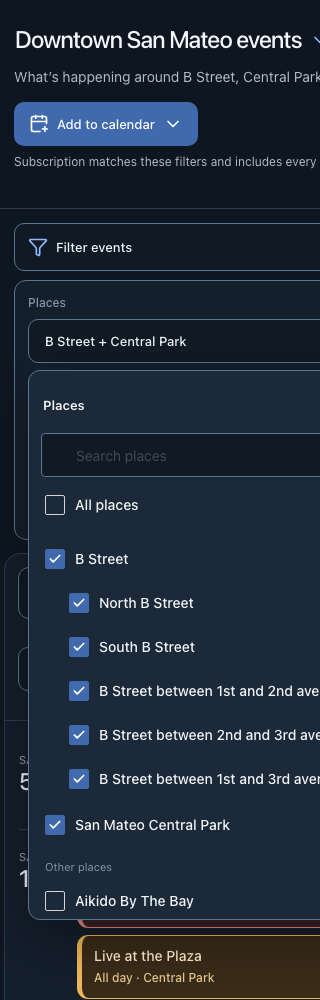
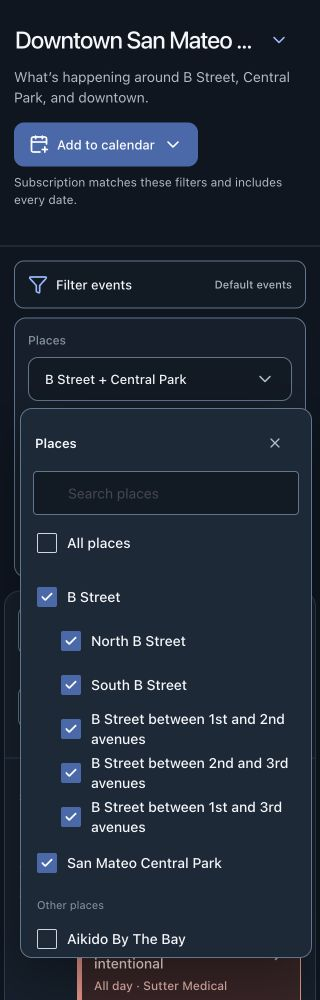
Contain mobile filter labels

diff --git a/frontend/src/App.test.tsx b/frontend/src/App.test.tsx
@@ -583,7 +583,9 @@ describe('Calendar explorer', () => {
     const trigger = screen.getByRole('button', {
       name: 'Places: B Street + Central Park'
     })
-    await user.click(screen.getByRole('button', { name: 'Close place filters' }))
+    await user.click(
+      screen.getByRole('button', { name: 'Close place filters' })
+    )
     await waitFor(() =>
       expect(
         screen.queryByRole('checkbox', { name: 'All places' })

diff --git a/frontend/src/components/FilterPopover.tsx b/frontend/src/components/FilterPopover.tsx
@@ -62,7 +62,14 @@ export function FilterCheckboxRow({
       <Checkbox.Control flexShrink="0" colorPalette="action">
         <Checkbox.Indicator />
       </Checkbox.Control>
-      <Checkbox.Label flex="1">{label}</Checkbox.Label>
+      <Checkbox.Label
+        flex="1"
+        minW="0"
+        whiteSpace="normal"
+        overflowWrap="anywhere"
+      >
+        {label}
+      </Checkbox.Label>
     </Checkbox.Root>
   )
 }
